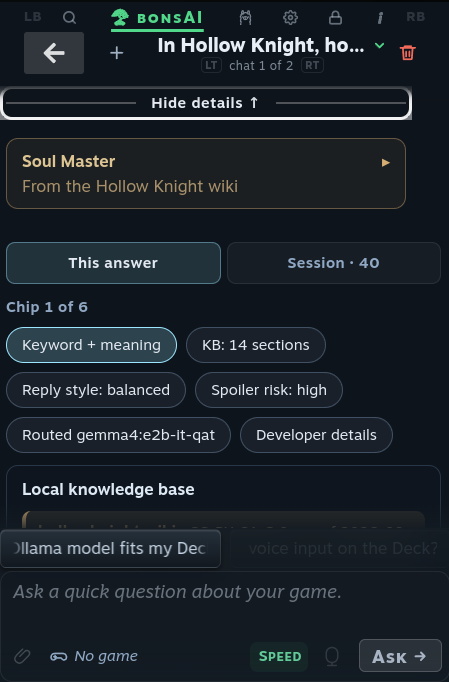
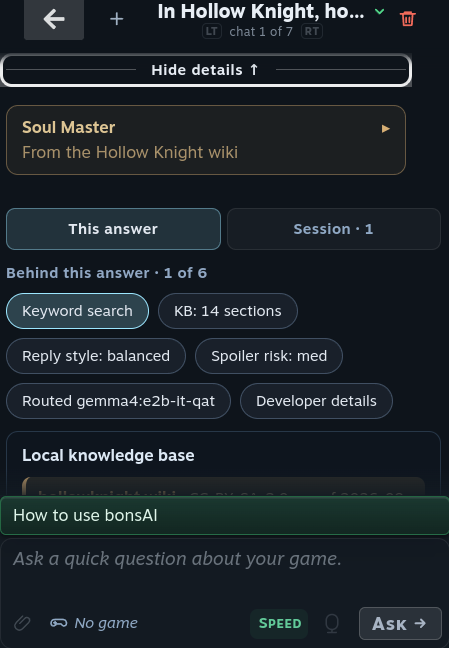
README: every clip is a short self-playing GIF, and the two top pictures match
The maintainer asked for (2026-10-29):

- GIFs everywhere, playing on their own. The six hand-uploaded videos and the
  six animated WebPs are now twelve GIFs. Panel clips are 360 wide; the five
  that show something outside the panel (the notes list, the screenshot, the
  Steam setting search jumps to, the Reply ready popup, the delete-a-chat box)
  are whole-screen at 640 wide. All 15 fps.
- As short as they can be. Waiting is cut out and each cut fades through black
  over one second (the maintainer saw a half-second test and asked for slower).
  Nothing is sped up. 12 clips went from about 11 minutes to about 3.5; the
  intro line now says waits are cut. scripts/readme_gifs.py holds every clip's
  kept stretches so a GIF can be rebuilt or re-cut without re-filming.
- Top pictures with matching backgrounds and no tab bar. The old pair came from
  different sessions; the answer one had a lighter tint (26,32,37 against
  14,20,27). Both are retaken on the Deck back to back from one Hollow Knight
  answer, cropped below the tab bar, and the details picture shows the new
  "Behind this answer · 1 of 6" line.

The release zip packs a fixed file list without assets/, so the 56 MB of GIFs
never reach a player's download.

verify.py --quick stops at its first step on the roadmap's size (100.61 KB over
a 100 KB ceiling, from 3ac3e810, not this change); check_headers,
growth_limit and docs_toc --check pass when run on their own.

diff --git a/scripts/readme_gifs.py b/scripts/readme_gifs.py
@@ -1,0 +1,81 @@
+#!/usr/bin/env python3
+"""Title: README GIF builder
+
+Purpose: Turn the README clips into short, self-playing GIFs, every one cut the same way.
+Used for: `python scripts/readme_gifs.py [clip ...]` after `scripts/readme_media.py` has cut the
+    panel and whole-screen videos into `recordings/readme-cuts/`.
+Solves: The clips are real time, so most of their length is waiting for the AI. This keeps only
+    the stretches listed below and joins them with a one-second fade through black, so every cut
+    is easy to see and looks the same in every GIF.
+Does not: Speed anything up. Each kept stretch plays at its real speed. It never records or
+    re-cuts a master either; change a clip's stretches here and run it again.
+
+Each stretch is the part that must be fully visible. The script widens it by half a fade on each
+side that meets another stretch, so the fade darkens only frames nobody needs to see.
+"""
+
+from __future__ import annotations
+
+import subprocess
+import sys
+from pathlib import Path
+
+SRC_DIR = Path("recordings/readme-cuts")
+OUT_DIR = Path("assets/readme")
+FADE = 1.0  # seconds; the maintainer asked for a slower fade than 0.5 (2026-10-29)
+FPS = 15
+# "crop" is the first-run popups alone; its video was rebuilt at 30 fps from the WebP the README
+# used before, since that crop box was never written down.
+WIDTH = {"panel": 360, "full": 640, "crop": 600}
+
+# clip name -> (shape, stretches in seconds of that shape's video)
+CLIPS: dict[str, tuple[str, list[tuple[float, float]]]] = {
+    "ask-about-your-game": ("panel", [(13, 17), (26, 30.5), (40, 46), (59.5, 63), (77, 81.5), (85.5, 89), (90, 95)]),
+    "wiki-notes": ("panel", [(1.5, 5), (24.5, 30), (35.5, 44)]),
+    "your-notes": ("full", [(2.5, 6), (9, 17.5), (25.5, 29), (33, 36), (50, 58)]),
+    "spoiler": ("panel", [(3.5, 11), (22, 31)]),
+    "strategy-checklist": ("panel", [(13.5, 20), (23, 27), (28.5, 34)]),
+    "ask-about-a-screenshot": ("full", [(0.5, 3.5), (11.5, 19), (34, 41), (45.5, 49), (69.5, 76)]),
+    "search": ("full", [(0.5, 7), (12.5, 16.5), (45.5, 53)]),
+    "reply-ready": ("full", [(2, 7.5), (17.5, 23)]),
+    "saved-chats": ("full", [(0.5, 8.5), (63.5, 74), (84, 88)]),
+    "talk": ("panel", [(8.5, 17)]),
+    "show-details": ("panel", [(0, 6.5), (9, 13)]),
+    "first-run": ("crop", [(0, 2.5), (4, 6.5), (14.5, 20)]),
+}
+
+
+def build(name: str) -> None:
+    shape, keep = CLIPS[name]
+    src = SRC_DIR / f"{name}-deck-{shape}.mp4"
+    out = OUT_DIR / f"{name}.gif"
+    half = FADE / 2
+    padded = [(a - (half if i else 0), b + (half if i < len(keep) - 1 else 0)) for i, (a, b) in enumerate(keep)]
+
+    parts = []
+    for i, (a, b) in enumerate(padded):
+        parts.append(f"[0:v]trim={max(a, 0)}:{b},setpts=PTS-STARTPTS,fps={FPS},"
+                     f"scale={WIDTH[shape]}:-2:flags=lanczos,format=yuv420p[s{i}]")
+    cur, length = "s0", padded[0][1] - max(padded[0][0], 0)
+    for i in range(1, len(padded)):
+        offset = length - FADE
+        parts.append(f"[{cur}][s{i}]xfade=transition=fadeblack:duration={FADE}:offset={offset:.3f}[x{i}]")
+        cur = f"x{i}"
+        length = offset + padded[i][1] - padded[i][0]
+    # One palette for the whole GIF, built from what changes, so the fades stay smooth.
+    parts.append(f"[{cur}]split[p][q];[p]palettegen=max_colors=192:stats_mode=diff[pal];"
+                 "[q][pal]paletteuse=dither=bayer:bayer_scale=4:diff_mode=rectangle[g]")
+    subprocess.run(["ffmpeg", "-v", "error", "-y", "-i", str(src), "-filter_complex", ";".join(parts),
+                    "-map", "[g]", "-loop", "0", str(out)], check=True)
+    print(f"{out}: {length:.1f} s, {out.stat().st_size / 1e6:.1f} MB")
+
+
+def main() -> int:
+    names = sys.argv[1:] or list(CLIPS)
+    for name in names:
+        build(name)
+    return 0
+
+
+if __name__ == "__main__":
+    sys.exit(main())

diff --git a/README.md b/README.md
@@ -11,9 +11,9 @@ bonsAI lives in the Deck's **Quick Access Menu**, the panel the **`...`** button
 mid-game, ask how to beat a boss or why the game stutters and keep playing.
 
 <p align="center">
-  <img src="assets/readme/top-answer.png" alt="bonsAI's Main tab on a Steam Deck, answering a question about the game" width="300">
+  <img src="assets/readme/top-answer.png" alt="bonsAI's Main tab on a Steam Deck, answering how to beat a Hollow Knight boss" width="300">
   &nbsp;
-  <img src="assets/readme/top-details.png" alt="Show details under an answer: the model that wrote it and the notes it used" width="300">
+  <img src="assets/readme/top-details.png" alt="Show details under that answer: the wiki note it used and what was behind it" width="300">
 </p>
 
 <!-- toc: written by scripts/docs_toc.py; do not hand-edit -->
@@ -46,7 +46,8 @@ tap them.
 
 ## What it does
 
-Every clip is filmed on a Steam Deck in real time, most with the AI on a PC at home.
+Every clip is filmed on a Steam Deck, most with the AI on a PC at home. Waiting is cut out and
+each cut fades to black; nothing is sped up.
 
 <dl><dd>
 
@@ -58,7 +59,7 @@ Ask about a boss, a level or a puzzle, by typing or with a suggestion chip. Pick
 for a quick reply, **Strategy** for coaching, **Expert** for the most detail. Switch on **Thinking**
 to watch the steps.
 
-https://github.com/user-attachments/assets/4362ec0e-81c2-4f33-8aee-d6235e1850ae
+<img src="assets/readme/ask-about-your-game.gif" alt="Picking Strategy, asking about a boss, the answer and its reasoning, then picking where you are and ticking a step" width="360">
 
 </details>
 
@@ -69,7 +70,7 @@ https://github.com/user-attachments/assets/4362ec0e-81c2-4f33-8aee-d6235e1850ae
 The knowledge library is a one-time download. An answer that uses a note says where it came from,
 and you can open the note under the answer.
 
-<img src="assets/readme/wiki-notes.webp" alt="A Speed answer from the AI on the Deck that uses a wiki note, then the note opening under the answer" width="360">
+<img src="assets/readme/wiki-notes.gif" alt="A Speed answer from the AI on the Deck that uses a wiki note, then the note opening under the answer" width="360">
 
 *With the AI on the Deck itself.*
 
@@ -82,7 +83,7 @@ and you can open the note under the answer.
 Say something like "no spoilers for later biomes" and a card offers to keep it, for this game or
 every game. Later answers say **Read 1 of your notes**; press it to see, switch off or remove a note.
 
-https://github.com/user-attachments/assets/29bc4144-c81b-44eb-aaff-c51d0f2c2ce0
+<img src="assets/readme/your-notes.gif" alt="Keeping a line as a note, then a later answer that read it and the list of your notes" width="640">
 
 </details>
 
@@ -93,7 +94,7 @@ https://github.com/user-attachments/assets/29bc4144-c81b-44eb-aaff-c51d0f2c2ce0
 In Strategy mode, anything that looks like a spoiler is covered; press **A** to open it. It's
 best-effort and can miss things.
 
-<img src="assets/readme/spoiler.webp" alt="A spoiler in a Strategy answer, covered until it is opened" width="360">
+<img src="assets/readme/spoiler.gif" alt="A spoiler in a Strategy answer, covered until it is opened" width="360">
 
 </details>
 
@@ -103,7 +104,7 @@ best-effort and can miss things.
 
 Tick off steps as you go. Progress is saved for each game.
 
-<img src="assets/readme/strategy-checklist.webp" alt="Picking where you are in the game, then the checklist of steps arriving" width="360">
+<img src="assets/readme/strategy-checklist.gif" alt="Picking where you are in the game, then the checklist of steps arriving" width="360">
 
 </details>
 
@@ -115,7 +116,7 @@ Press the paperclip and pick **Close menu & take screenshot**. Reopen the menu, 
 again and pick **Attach recent screenshot**. This needs a model that can see pictures; the starter
 model can.
 
-https://github.com/user-attachments/assets/77b1c3d5-3eb8-400e-ae54-60f9aa8fd74e
+<img src="assets/readme/ask-about-a-screenshot.gif" alt="Taking a screenshot from the paperclip menu, attaching it and asking what is on screen" width="640">
 
 </details>
 
@@ -125,7 +126,7 @@ https://github.com/user-attachments/assets/77b1c3d5-3eb8-400e-ae54-60f9aa8fd74e
 
 The Search tab sits left of Main. Type "brightness" and jump straight to that Steam setting.
 
-https://github.com/user-attachments/assets/1893bbff-c925-4961-b892-8089ad5fd1b4
+<img src="assets/readme/search.gif" alt="Typing brightness on the Search tab, opening a chat it found, then jumping to the Steam brightness setting" width="640">
 
 </details>
 
@@ -136,7 +137,7 @@ https://github.com/user-attachments/assets/1893bbff-c925-4961-b892-8089ad5fd1b4
 The answer keeps going in the background. The **Reply ready** popup shows its first lines, and the
 full answer waits in the chat.
 
-https://github.com/user-attachments/assets/dddd7b9c-7ac2-4901-bf5c-46dc0c87f031
+<img src="assets/readme/reply-ready.gif" alt="Asking, closing the menu, then the Reply ready popup showing the answer's first lines over the game" width="640">
 
 </details>
 
@@ -147,7 +148,7 @@ https://github.com/user-attachments/assets/dddd7b9c-7ac2-4901-bf5c-46dc0c87f031
 At ten, **New chat** asks which one to delete first. Long chats are summed up so the older part
 isn't forgotten.
 
-https://github.com/user-attachments/assets/70d1236e-968c-49a6-8af8-8eb7d65caa85
+<img src="assets/readme/saved-chats.gif" alt="Flipping between saved chats with the triggers, then New chat asking which chat to delete" width="640">
 
 </details>
 
@@ -158,7 +159,7 @@ https://github.com/user-attachments/assets/70d1236e-968c-49a6-8af8-8eb7d65caa85
 Words appear as you talk. When you stop, bonsAI tidies the text in a couple of seconds, then
 deletes the recording.
 
-<img src="assets/readme/talk.webp" alt="Pressing the mic button, the first word appearing, then the tidied text after Stop" width="360">
+<img src="assets/readme/talk.gif" alt="Pressing the mic button, the first word appearing, then the tidied text after Stop" width="360">
 
 *With a computer voice played into the Deck.*
 
@@ -171,7 +172,7 @@ deletes the recording.
 Press **Show details** under any answer. Its **Session** tab holds the chat's history and **Sum up
 this chat**.
 
-<img src="assets/readme/show-details.webp" alt="Opening Show details under an answer, then the Session tab" width="360">
+<img src="assets/readme/show-details.gif" alt="Opening Show details under an answer, then the Session tab" width="360">
 
 </details>
 
@@ -218,7 +219,7 @@ model. You install it from this page instead. It takes a few minutes.
 
 The first time bonsAI opens, two popups walk you through it:
 
-<img src="assets/readme/first-run.webp" alt="The first time bonsAI opens: the beta notice, the Where should the AI run? popup with its PC option, then Install Ollama and the box that turns on downloads for the starter models" width="600">
+<img src="assets/readme/first-run.gif" alt="The first time bonsAI opens: the beta notice, the Where should the AI run? popup with its PC option, then Install Ollama and the box that turns on downloads for the starter models" width="600">
 
 *Filmed in real time on a Steam Deck, with two pauses cut out.*
 
